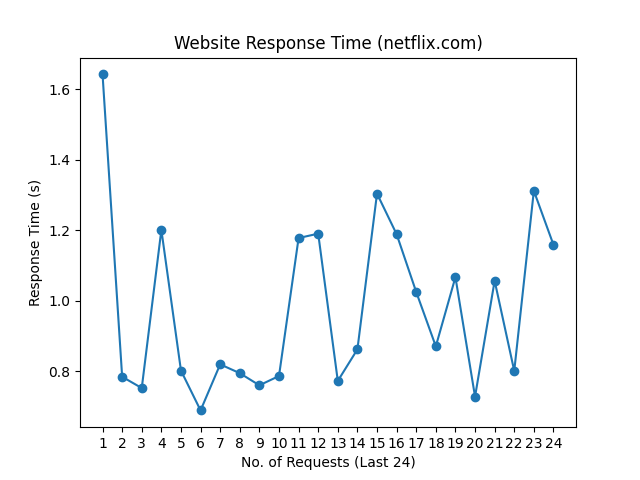
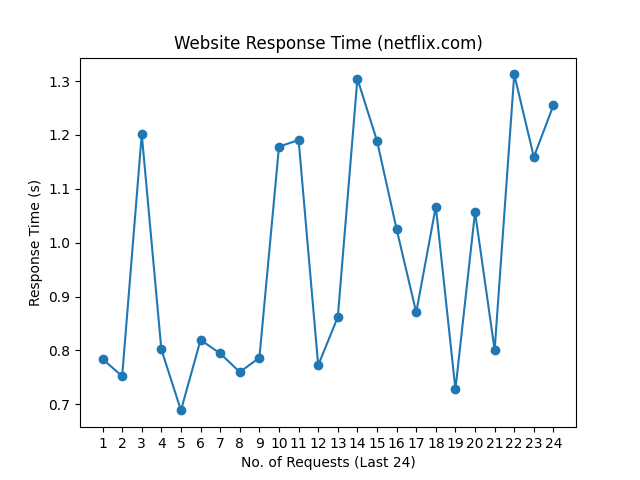
update README.md, history and graph

diff --git a/README.md b/README.md
@@ -1,10 +1,10 @@
 # Web Monitoring
 
-Last Checked: 20/10/2024 08:21
+Last Checked: 21/10/2024 08:20
 
 | Website | Response Time (s) | Status | Avg Uptime (%) |
 |---------|-------------------|--------|----------------|
 | www.thiswebsiteisdown.net | 0 <br> <img src="graph/thiswebsiteisdown.net.png" alt="Graph" width="200" height="200">  | ❌ Down | 0.00 |
-| www.netflix.com | 1.158997 <br> <img src="graph/netflix.com.png" alt="Graph" width="200" height="200">  | ✅ Up | 100.00 |
-| www.google.com | 0.077176 <br> <img src="graph/google.com.png" alt="Graph" width="200" height="200">  | ✅ Up | 100.00 |
-| www.facebook.com | 1.063011 <br> <img src="graph/facebook.com.png" alt="Graph" width="200" height="200">  | ✅ Up | 100.00 |
+| www.netflix.com | 1.255149 <br> <img src="graph/netflix.com.png" alt="Graph" width="200" height="200">  | ✅ Up | 100.00 |
+| www.google.com | 0.073834 <br> <img src="graph/google.com.png" alt="Graph" width="200" height="200">  | ✅ Up | 100.00 |
+| www.facebook.com | 0.687843 <br> <img src="graph/facebook.com.png" alt="Graph" width="200" height="200">  | ✅ Up | 100.00 |
